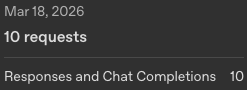
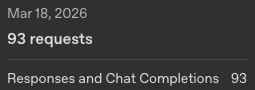
LRU caching check | Updated README.md

diff --git a/app/feedback.py b/app/feedback.py
@@ -2,6 +2,7 @@
 
 import hashlib
 import json
+import logging
 import os
 from collections import OrderedDict
 from typing import Optional
@@ -9,6 +10,8 @@ from typing import Optional
 from openai import AsyncOpenAI
 
 from app.models import FeedbackRequest, FeedbackResponse
+
+logger = logging.getLogger(__name__)
 
 SYSTEM_PROMPT = """\
 You are a language-learning feedback engine.
@@ -137,8 +140,10 @@ async def get_feedback(request: FeedbackRequest) -> FeedbackResponse:
 
     cached = _cache_get(key)
     if cached is not None:
+        logger.info("feedback_cache_hit key_prefix=%s", key[:8])
         return FeedbackResponse(**cached)
 
+    logger.info("feedback_cache_miss key_prefix=%s", key[:8])
     client = AsyncOpenAI()
 
     user_message = (

diff --git a/README.md b/README.md
@@ -107,6 +107,10 @@ OpenAI's JSON mode guarantees the model output is valid JSON. Without this, the 
 
 `get_feedback` uses a small in-memory **LRU cache** keyed by a hash of `(PROMPT_VERSION, model name, sentence, target_language, native_language)`, capped by `FEEDBACK_CACHE_MAX_ITEMS` (default 1024). This avoids paying for the same LLM call twice, cuts latency for repeated sentences to a simple memory lookup, and makes it straightforward to plug in a shared Redis cache later using the same key/value shape.
 
+**Manual verification (Docker)**: sending the exact same `/feedback` request twice shows a large latency drop on the second call (first call hits OpenAI; second call is served from the in-memory LRU cache):
+
+![LRU cache verification via repeated request timing](examples/LRU_caching_example.png)
+
 ## Prompt Strategy
 
 The prompt went through several iterations to fix specific failure modes discovered during testing.
@@ -115,7 +119,7 @@ The prompt went through several iterations to fix specific failure modes discove
 
 The default starter prompt told the model to "explain the error in the learner's NATIVE language." This worked when `native_language` was a distinctive language like Nepali, but **consistently failed when `native_language` was English**. The model would write explanations in the target language (Spanish, French, Nepali) instead of English.
 
-This is documented in detail in [BUG_REPORT.md](BUG_REPORT.md) with five reproducible test cases.
+**Reviewer note**: Please start with [BUG_REPORT.md](BUG_REPORT.md) — it contains the full reproduction steps, screenshots, and root-cause analysis for the cross-lingual drift bug.
 
 The root cause: the system prompt itself is in English, so the model doesn't register "write in English" as a language switch. English is its default cognitive state — there's no contrast signal. The target language's contextual gravity (the sentence, corrections, and grammar concepts are all in that language) overpowers the weak instruction.
 
@@ -181,6 +185,8 @@ Note: some “incorrect” learner sentences in these tests may still translate 
 
 These hit the real OpenAI API and verify the prompt produces correct, well-structured output.
 
+Because they depend on LLM behavior, a small amount of flakiness is expected: in particular, the Portuguese mixed-errors test can occasionally return only one `error_type` when the model chooses to group multiple issues together. In those rare runs, rerunning the test usually produces the expected two distinct error types.
+
 | # | Test | Language | What it checks |
 |---|---|---|---|
 | 1 | Spanish conjugation error | Spanish | Errors detected, valid schema |
@@ -223,6 +229,8 @@ examples/
   sample_inputs.json     5 example input/output pairs
 test_scenarios/
   bug_report_*.png       Screenshots documenting the cross-lingual drift bug
+API_usuage/
+  *.png                  OpenAI usage screenshots 
 Dockerfile               Python 3.11 slim image
 docker-compose.yml       Single service (feedback-api) on port 8000
 BUG_REPORT.md            Detailed analysis of the cross-lingual drift bug
@@ -230,11 +238,11 @@ BUG_REPORT.md            Detailed analysis of the cross-lingual drift bug
 
 ## API Usage During Development
 
-Over the course of building and optimizing the prompt, I made **57 real API requests** to `gpt-4o-mini`, consuming **30,776 tokens** total. This covers prompt iteration, bug reproduction, cross-lingual drift testing, and integration test runs.
+Over the course of building and optimizing the prompt, I made **140 real API requests** to `gpt-4o-mini`, consuming **104,355 tokens** total. This covers prompt iteration, bug reproduction, cross-lingual drift testing, and integration test runs.
 
 ### Totals
 
-Total API cost for development/optimization was **$0.01**.
+Total API cost for development/optimization was **$0.03**.
 
 ![Total tokens and requests](API_usuage/total_tokens_and_requests.png)
 
@@ -248,8 +256,8 @@ Total API cost for development/optimization was **$0.01**.
 
 ### March 18, 2026 -- verification and final testing
 
-- **10 requests** — final integration test runs after prompt fix, edge-case verification.
-- **9,883 tokens** (8,862 input + 1,021 output)
+- **93 requests** — final integration test runs after prompt fix, edge-case verification.
+- **92,555 tokens** (82,441 input + 10,114 output)
 
 ![March 18 requests](API_usuage/march_18_requests.png)
 ![March 18 tokens](API_usuage/march_18_tokens.png)
@@ -262,3 +270,11 @@ I don't speak most of the languages this API handles. To verify accuracy for lan
 2. Used back-translation (feeding the corrected sentence into a translator and checking if the meaning is preserved)
 3. Tested with intentionally obvious errors (wrong word order, missing prepositions, duplicated words) where the expected correction is unambiguous even without fluency
 4. Verified the integration tests produce structurally valid responses across all 7 tested languages
+
+## Recommended Review Path
+
+If you're reviewing this project, I recommend:
+
+1. Start with `BUG_REPORT.md` to see the original cross-lingual drift bug, reproduction steps, and analysis.
+2. Then read the **Prompt Strategy** and **Caching for production feasibility** sections above to understand the design decisions.
+3. Finally, run the tests (`pytest tests/test_feedback_unit.py tests/test_schema.py -v` and `pytest tests/test_feedback_integration.py -v`) and, if desired, hit `/feedback` in Docker to see real responses and LRU caching behavior.
